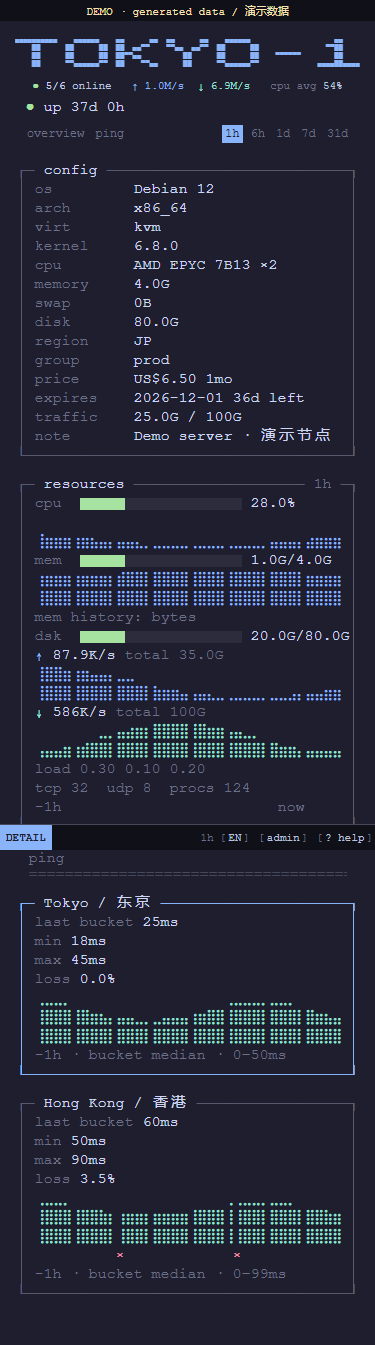
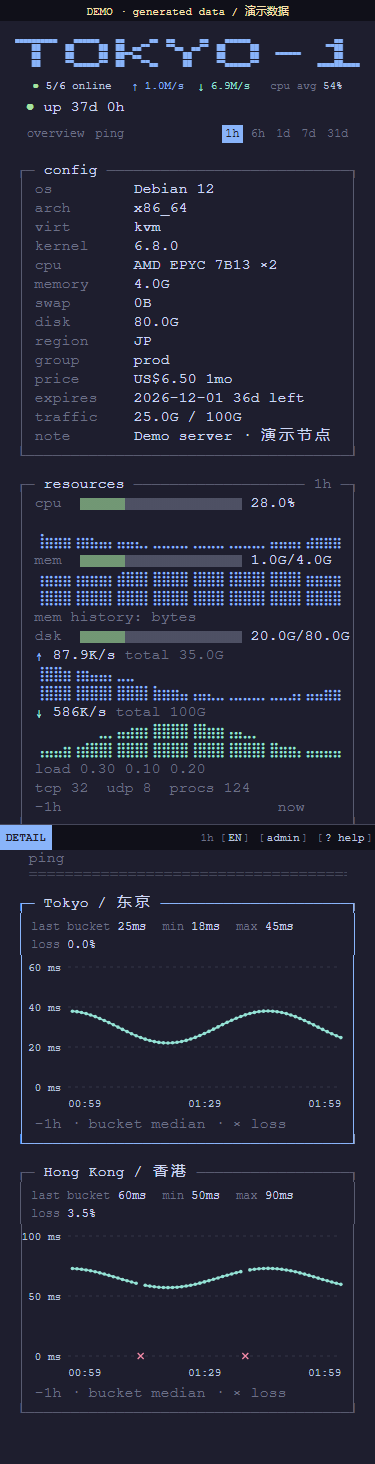
feat: add ping line charts and fluid terminal cards

diff --git a/tests/e2e/theme.spec.js b/tests/e2e/theme.spec.js
@@ -2,6 +2,16 @@ import {test,expect} from '@playwright/test';
 test('fresh visitors start with Catppuccin and can use terminal-styled controls',async({page})=>{
  await page.goto('/');await expect(page.locator('.card')).toHaveCount(6);await expect(page.locator('#st-pal')).toHaveText('catppuccin');await expect(page.locator('.palette-control')).toBeVisible();await page.locator('#palette').selectOption('nord');await expect(page.locator('#st-pal')).toHaveText('nord');
 });
+test('palette control fits its text and uses an underline instead of a focus box',async({page})=>{
+ await page.goto('/');await page.locator('#palette').selectOption('catppuccin');await page.locator('#palette').focus();
+ const style=await page.locator('#palette').evaluate(el=>({outline:getComputedStyle(el).outlineStyle,width:el.getBoundingClientRect().width,ch:parseFloat(getComputedStyle(el).fontSize)}));
+ await page.locator('#palette').blur();
+ expect(style.outline).toBe('none');expect(style.width).toBeLessThan(140);
+});
+test('ping tasks render responsive SVG polylines with readable axes and loss markers',async({page})=>{
+ await page.goto('/#/node/1');await expect(page.locator('.ping-chart svg').first()).toBeVisible();await expect(page.locator('.ping-line').first()).toHaveAttribute('d',/M.*L/);await expect(page.locator('.ping-loss').first()).toBeVisible();await expect(page.locator('.ping-chart').first()).toContainText('ms');
+ await page.setViewportSize({width:320,height:850});await expect.poll(()=>page.evaluate(()=>document.documentElement.scrollWidth<=innerWidth)).toBe(true);
+});
 test('faithful list, Monitor detail, routing, languages and palettes',async({page})=>{
  const errors=[];page.on('pageerror',e=>errors.push(e.message));await page.goto('/');await expect(page.locator('.card')).toHaveCount(6);
  await expect(page.locator('#demo')).toBeVisible();await page.locator('.card').first().click();await expect(page).toHaveURL(/#\/node\/1/);await expect(page.locator('#detail-body')).toContainText('config');
@@ -36,6 +46,11 @@ test('medium windows use two compact columns instead of a narrow centered stack'
  const layout=await page.locator('#grid').evaluate(el=>{const a=el.children[0].getBoundingClientRect(),b=el.children[1].getBoundingClientRect();return {firstTop:a.top,secondTop:b.top,firstLeft:a.left,secondLeft:b.left,height:a.height};});
  expect(layout.firstTop).toBe(layout.secondTop);expect(layout.secondLeft).toBeGreaterThan(layout.firstLeft);expect(layout.height).toBeLessThanOrEqual(180);expect(await page.evaluate(()=>document.documentElement.scrollWidth<=innerWidth)).toBe(true);
 });
+test('card rows fill available width and column count stays stable after font loading',async({page})=>{
+ await page.setViewportSize({width:1645,height:850});await page.goto('/');await expect(page.locator('.card')).toHaveCount(6);await page.screenshot();
+ const geometry=()=>page.locator('#grid').evaluate(el=>{const cards=[...el.children].map(n=>n.getBoundingClientRect()),first=cards.filter(r=>r.top===cards[0].top),grid=el.getBoundingClientRect();return {columns:first.length,left:first[0].left-grid.left,right:grid.right-first.at(-1).right};});
+ let g=await geometry();expect(g.columns).toBe(4);expect(g.left).toBeLessThanOrEqual(9);expect(g.right).toBeLessThanOrEqual(9);await page.setViewportSize({width:1630,height:850});await page.waitForTimeout(250);g=await geometry();expect(g.columns).toBe(4);expect(g.right).toBeLessThanOrEqual(9);
+});
 test('native buttons activate with Enter and retain focus across snapshots',async({page})=>{
  await page.goto('/');const group=page.getByRole('button',{name:'[prod]',exact:true});await group.focus();await page.keyboard.press('Enter');await expect(page.locator('.card')).toHaveCount(2);await expect(page).not.toHaveURL(/node/);
  await page.locator('.card').first().click();const ping=page.getByRole('button',{name:'ping',exact:true});await ping.focus();await page.keyboard.press('Enter');await expect(page.locator('#st-mode')).toHaveText('PING');await ping.focus();await page.waitForTimeout(2300);await expect(ping).toBeFocused();
@@ -52,7 +67,8 @@ test('meter filled and empty cells share the same rectangle independent of glyph
   const fill=el.querySelector('.meter-fill .cell'),empty=el.querySelector('.meter-empty .cell');if(!fill||!empty)return null;
   const a=fill.getBoundingClientRect(),b=empty.getBoundingClientRect();return {heightA:a.height,heightB:b.height,topA:a.top,topB:b.top,widthA:a.width,widthB:b.width,fill:getComputedStyle(fill).backgroundColor,pattern:getComputedStyle(empty).backgroundImage};
  });
- expect(geometry).not.toBeNull();expect(geometry.heightA).toBe(12);expect(geometry.heightB).toBe(12);expect(geometry.topA).toBe(geometry.topB);expect(geometry.widthA).toBe(geometry.widthB);expect(geometry.fill).not.toBe('rgba(0, 0, 0, 0)');expect(geometry.pattern).toContain('radial-gradient');
+ expect(geometry).not.toBeNull();expect(geometry.heightA).toBe(12);expect(geometry.heightB).toBe(12);expect(geometry.topA).toBe(geometry.topB);expect(geometry.widthA).toBe(geometry.widthB);expect(geometry.pattern).toContain('radial-gradient');
+ const patterns=await page.locator('.card').first().evaluate(el=>[...el.querySelectorAll('.meter-fill .cell,.meter-empty .cell')].map(n=>getComputedStyle(n).backgroundImage.replace(/rgba?\([^)]*\)/g,'COLOR')+' '+getComputedStyle(n).backgroundSize));expect(new Set(patterns).size).toBe(1);
 });
 test('groups and search affect the visible summary; offline and waiting differ',async({page})=>{
  await page.goto('/');await expect(page.locator('.card')).toHaveCount(6);await expect(page.locator('#grid')).toContainText('waiting');await expect(page.locator('#grid')).toContainText('offline');

diff --git a/src/render/ping-chart.js b/src/render/ping-chart.js
@@ -1,0 +1,43 @@
+import {finite} from '../data/model.js';
+
+/** Actual timestamp positions; missing buckets and long gaps split the line. */
+export function lineGeometry(input,{start,end,width,height,step=60}) {
+ step=finite(step)&&step>0?step:60;
+ const points=(Array.isArray(input)?input:[]).filter(p=>p&&finite(p.ts)&&p.ts>=start&&p.ts<=end).sort((a,b)=>a.ts-b.ts);
+ const values=points.map(p=>p.latency).filter(finite),peak=Math.max(1,...values)*1.15;
+ const power=10**Math.floor(Math.log10(peak/4)),tick=[1,2,5,10].map(v=>v*power).find(v=>v>=peak/4)||power*10;
+ const max=Math.max(tick,Math.ceil(peak/tick)*tick),left=46,right=Math.max(left+1,width-12),top=12,bottom=Math.max(top+1,height-28);
+ const x=ts=>left+(ts-start)/Math.max(1,end-start)*(right-left),y=value=>bottom-value/max*(bottom-top);
+ const paths=[],dots=[],loss=[];let current='',previous=null;
+ const flush=()=>{if(current)paths.push(current);current='';previous=null;};
+ for(const p of points){
+  if(finite(p.loss)&&p.loss>0)loss.push({x:x(p.ts),value:p.loss,ts:p.ts});
+  if(!finite(p.latency)){flush();continue;}
+  if(previous!==null&&p.ts-previous>Math.max(1,step)*1.5)flush();
+  const px=x(p.ts),py=y(p.latency);current+=`${current?'L':'M'}${px.toFixed(2)},${py.toFixed(2)} `;previous=p.ts;dots.push({x:px,y:py,value:p.latency,ts:p.ts,loss:finite(p.loss)?p.loss:0});
+ }
+ flush();return {paths,points:dots,loss,max,tick,left,right,top,bottom,width,height};
+}
+
+const NS='http://www.w3.org/2000/svg';
+function element(tag,attrs={},text){const el=document.createElementNS(NS,tag);for(const [key,value]of Object.entries(attrs))el.setAttribute(key,String(value));if(text!==undefined)el.textContent=text;return el;}
+const clockFormat=new Intl.DateTimeFormat(undefined,{hour:'2-digit',minute:'2-digit',hour12:false});
+const dayFormat=new Intl.DateTimeFormat(undefined,{month:'2-digit',day:'2-digit'});
+const dateTimeFormat=new Intl.DateTimeFormat(undefined,{month:'2-digit',day:'2-digit',hour:'2-digit',minute:'2-digit',hour12:false});
+const time=ts=>clockFormat.format(new Date(ts*1000));
+const latency=v=>v>=1000?`${Number((v/1000).toPrecision(2))} s`:`${v<10?Number(v.toFixed(1)):Math.round(v)} ms`;
+
+export function drawPingChart(host,task,{start,end,step=60,language='en'}={}) {
+ const width=Math.max(180,host.clientWidth),height=host.classList.contains('big')?240:160;
+ const g=lineGeometry(task.points,{start,end,width,height,step});
+ const svg=element('svg',{viewBox:`0 0 ${width} ${height}`,width:'100%',height,role:'img','aria-label':`${task.name} · ${language==='zh'?'延迟折线图，时间桶中位数':'latency line, bucket medians'}`});
+ svg.append(element('title',{},`${task.name} · ${language==='zh'?'延迟折线；缺失数据不连线；× 表示丢包':'Latency line; gaps are not connected; × marks packet loss'}`));
+ for(let value=0;value<=g.max+g.tick/100;value+=g.tick){const y=g.bottom-value/g.max*(g.bottom-g.top);svg.append(element('line',{x1:g.left,y1:y,x2:g.right,y2:y,class:'ping-grid'}),element('text',{x:g.left-7,y:y+4,'text-anchor':'end',class:'ping-axis'},latency(value)));}
+ const ticks=width<440?2:4;
+ for(let i=0;i<=ticks;i++){const ts=start+(end-start)*i/ticks,x=g.left+(g.right-g.left)*i/ticks,label=end-start>86400?(width<440?dayFormat:dateTimeFormat).format(new Date(ts*1000)):time(ts);svg.append(element('text',{x,y:height-8,'text-anchor':i===ticks?'end':i===0?'start':'middle',class:'ping-axis'},label));}
+ for(const d of g.paths)svg.append(element('path',{d,class:'ping-line',fill:'none','stroke-width':1.7,'vector-effect':'non-scaling-stroke'}));
+ for(const p of g.points){const dot=element('circle',{cx:p.x,cy:p.y,r:1.8,class:'ping-dot'});dot.append(element('title',{},`${time(p.ts)} · ${p.value.toFixed(1)} ms${p.loss?` · ${language==='zh'?'丢包':'loss'} ${p.loss}%`:''}`));svg.append(dot);}
+ for(const p of g.loss){const mark=element('path',{d:`M${p.x-3},${g.bottom-3}l6,6m-6,0l6,-6`,class:'ping-loss',fill:'none','stroke-width':1.3});mark.append(element('title',{},`${time(p.ts)} · ${language==='zh'?'丢包':'loss'} ${p.value}%`));svg.append(mark);}
+ if(!g.points.length)svg.append(element('text',{x:(g.left+g.right)/2,y:(g.top+g.bottom)/2,'text-anchor':'middle',class:'ping-axis'},language==='zh'?'无有效延迟数据':'No latency samples'));
+ host.replaceChildren(svg);
+}

diff --git a/src/views/detail.js b/src/views/detail.js
@@ -1,5 +1,6 @@
 import {box,bytes,uptime,ms,graph,meter,clip,txt,padR} from '../render/util.js';
 import {mount} from '../render/dom.js';
+import {drawPingChart} from '../render/ping-chart.js';
 import {ranges,pingModel,series,expiry,trafficUsed,finite} from '../data/model.js';
 import {history,clearHistory} from '../data/history.js';
 import {getLang,t} from '../i18n/index.js';
@@ -57,14 +58,11 @@ export function createDetail(app){
  }
  const tasks=()=>pingModel(slots.ping||{});
  function taskBlock(I,task,big){
-  const b=box(I),L=[b.top(` ${task.name} `)],gw=I-2,end=Date.now()/1000,start=end-hours()*3600;
-  L.push(b.row([['d',` ${word('last bucket','最近时间桶')} `],['w',ms(task.last)]]));
-  for(const [label,v]of [['min',ms(task.min)],['max',ms(task.max)],['loss',task.loss===null?'—':`${task.loss.toFixed(1)}%`]])L.push(b.row([['d',` ${label} `],['w',v]]));
-  const values=series(task.points,'latency',start,end,gw*2),top=Math.max(5,...task.points.map(p=>p.band?.[1]??p.latency??0))*1.1;
-  for(const g of graph(values,gw,big?8:3,top))L.push(b.row([['',' '],['n',g]]));
-  const loss=Array(gw).fill(' ');for(const p of task.points)if(p.loss>0&&p.ts>=start&&p.ts<=end)loss[Math.min(gw-1,Math.floor((p.ts-start)/(end-start)*gw))]='×';
-  if(loss.includes('×'))L.push(b.row([['',' '],['r',loss.join('')]]));
-  L.push(b.row([['d',` -${rangeLabel()} · ${word('bucket median','时间桶中位数')} · 0–${ms(top)}`]]));
+  const b=box(I),L=[b.top(` ${task.name} `)];
+  const stats=[[word('last bucket','最近时间桶'),ms(task.last)],[word('min','最低'),ms(task.min)],[word('max','最高'),ms(task.max)],[word('loss','丢包'),task.loss===null?'—':`${task.loss.toFixed(1)}%`]];
+  L.push(`<div class="ping-stats">${stats.map(([label,value])=>`<span><span class="d">${txt(label)} </span><span class="w">${txt(value)}</span></span>`).join('')}</div>`);
+  L.push(`<div class="ping-chart${big?' big':''}" data-ping="${task.id}"></div>`);
+  L.push(b.row([['d',` -${rangeLabel()} · ${word('bucket median · × loss','时间桶中位数 · × 丢包')}`]]));
   L.push(b.bottom());return `<div class="blk${task.id===(zoom??tasks()[selected]?.id)?' cur':''}" data-task="${task.id}" tabindex="0" role="button" aria-label="${task.id}">${L.join('')}</div>`;
  }
  function render(){
@@ -75,6 +73,8 @@ export function createDetail(app){
   const ts=tasks();selected=Math.max(0,Math.min(selected,ts.length-1));if(zoom!==null&&!ts.some(x=>x.id===zoom))zoom=null;
   const ping=ts.length?(zoom!==null?ts.filter(x=>x.id===zoom):ts).map(x=>taskBlock(I,x,zoom!==null)).join(''):`<div class="empty">${txt(loading?t('loading'):failure||t('noTasks'))}</div>`;
   mount($('detail-body'),title+controls+(tab==='ping'?ping:configBox(I,n)+resources(I,n)+`<div class="rule">${txt(t('sec.ping'))}</div>`+ping));
+  const end=Date.now()/1000,start=end-hours()*3600;
+  for(const host of $('detail-body').querySelectorAll('[data-ping]')){const task=ts.find(x=>x.id===Number(host.dataset.ping));if(task)drawPingChart(host,task,{start,end,step:slots.ping?.step||60,language:getLang()});}
  }
  function layout(){width=Math.max(20,Math.min(110,Math.floor((innerWidth-24)/app.cw())));$('detail').style.setProperty('--dw',width);render();}
  function show(next){if(id===next){render();return;}stop();id=next;tab='overview';zoom=null;selected=0;slots={metrics:null,ping:null};$('detail').hidden=false;layout();ensure();timer=setInterval(()=>ensure(),30000);scrollTo(0,0);}

diff --git a/src/visual/style.css b/src/visual/style.css
@@ -120,14 +120,13 @@ body { padding-bottom: 34px; }
 @media(prefers-reduced-motion:reduce) { #saver { display:none !important; } }
 .cell { display:inline-block; width:1ch; text-align:center; }
 .meter-fill .cell, .meter-empty .cell { height:12px; line-height:12px; vertical-align:middle; overflow:hidden; text-indent:-9999px; }
-.meter-fill .cell { background:currentColor; }
-.meter-empty .cell { background-image:radial-gradient(currentColor .5px,transparent .75px); background-size:2px 2px; }
+.meter-fill .cell,.meter-empty .cell { background-color:transparent; background-image:radial-gradient(currentColor .65px,transparent .8px); background-size:2px 2px; }
 
 /* Terminal controls: keep native semantics, render like bracketed commands. */
 .palette-control { display:inline-flex; align-items:center; color:var(--dark-foreground); white-space:nowrap; }
 .palette-control:has(select[hidden]) { display:none; }
-.palette-control .sel { appearance:none; -webkit-appearance:none; border:0; border-radius:0; background:transparent; color:var(--foreground); padding:1px .8ch; min-width:16ch; cursor:pointer; }
-.palette-control .sel:focus-visible { outline:1px solid var(--accent); outline-offset:2px; }
+.palette-control .sel { appearance:none; -webkit-appearance:none; border:0; border-radius:0; background:transparent; color:var(--foreground); padding:1px .25ch; min-width:0; cursor:pointer; box-shadow:none; outline:none; }
+.palette-control .sel:focus-visible { outline:none; text-decoration:underline; text-underline-offset:4px; }
 .palette-control:hover,.palette-control:focus-within { color:var(--accent); }
 .palette-control option { color:var(--foreground); background:var(--background); }
 .status { gap:8px; }
@@ -135,4 +134,17 @@ body { padding-bottom: 34px; }
 .status .hk::before { content:'['; color:var(--dark-foreground); }
 .status .hk::after { content:']'; color:var(--dark-foreground); }
 .status .hk:hover,.status .hk:focus-visible { color:var(--accent); background:transparent; }
-@media(max-width:480px) { .status { gap:4px; } .status .hk { padding:0 2px; } .palette-control .sel { min-width:13ch; } }
+@media(max-width:480px) { .status { gap:4px; } .status .hk { padding:0 2px; } }
+.ping-stats,.ping-chart { margin:0 .5ch; border-inline:1px solid var(--bc); }
+.ping-stats { display:flex; flex-wrap:wrap; gap:4px 16px; padding:7px 10px 3px; font-size:12px; }
+.ping-chart { height:160px; min-width:0; }
+.ping-chart.big { height:240px; }
+.ping-chart svg { display:block; max-width:100%; overflow:visible; }
+.ping-grid { stroke:var(--selection); stroke-dasharray:3 4; stroke-width:.6; }
+.ping-axis { fill:var(--light-foreground); font:11px var(--font); }
+.ping-line { stroke:var(--cyan); stroke-linejoin:round; stroke-linecap:round; }
+.ping-dot { fill:var(--cyan); }
+.ping-loss { stroke:var(--red); }
+.grid { grid-template-columns:repeat(var(--columns,1),minmax(0,1fr)); justify-content:stretch; }
+.card .ln.t,.card .ln.u { position:relative; }
+.card .ln.t > .b:last-child,.card .ln.u > .b:last-child { position:absolute; right:0; }

diff --git a/src/app.js b/src/app.js
@@ -71,7 +71,9 @@ function setupPaletteSelect() {
   mount(sel, `<option value="">${tr("auto")}</option>` + paletteNames().map((n) => `<option value="${n}">${n}</option>`).join(""));
   sel.value = chosenPalette() || "";
   sel.hidden = false;
-  sel.onchange = () => { store.set(sel.value); applyPalette(currentPalette()); status(); };
+  const fit=()=>{sel.style.width=`${wcw(sel.selectedOptions[0]?.textContent||'')+1}ch`;};
+  fit();
+  sel.onchange = () => { store.set(sel.value); fit(); applyPalette(currentPalette()); status(); };
 }
 dark.addEventListener("change", () => applyPalette(currentPalette()));
 
@@ -185,8 +187,9 @@ function charWidth() {
 }
 function calcWidth() {
   const available=Math.max(0,document.documentElement.clientWidth-16),gap=14,cell=charWidth();
-  const columns=Math.max(1,Math.floor((available+gap)/(34*cell+gap)));
-  W=Math.max(20,Math.min(46,Math.floor((available-gap*(columns-1))/columns/cell)));
+  const columns=Math.max(1,Math.floor((available+gap)/(320+gap)));
+  W=Math.max(20,Math.floor((available-gap*(columns-1))/columns/cell));
+  $("grid").style.setProperty("--columns",columns);
   $("grid").style.setProperty("--w", W);
 }
 function layout() {
@@ -321,6 +324,7 @@ function stepPalette(dir) {
   const next = cycle(paletteNames(), currentPalette(), dir);
   store.set(next);
   $("palette").value = next;
+  $("palette").style.width=`${wcw(next)+1}ch`;
   applyPalette(next);
 }
 function stepGroup(dir) {

diff --git a/tests/ping-chart.test.js b/tests/ping-chart.test.js
@@ -1,0 +1,11 @@
+import {test} from 'node:test';
+import assert from 'node:assert/strict';
+import {lineGeometry} from '../src/render/ping-chart.js';
+test('ping lines break at missing buckets and long gaps rather than connecting outages',()=>{
+ const g=lineGeometry([{ts:0,latency:20},{ts:60,latency:30},{ts:120,latency:null,loss:100},{ts:180,latency:25},{ts:600,latency:40}],{start:0,end:600,width:500,height:160,step:60});
+ assert.equal(g.paths.length,3);assert.equal(g.points.length,4);assert.equal(g.loss.length,1);assert.ok(g.paths[0].includes('L'));assert.ok(!g.paths.some(p=>p.includes('NaN')));assert.ok(g.max>=40);
+});
+test('empty, zero and malformed latency samples have bounded finite geometry',()=>{
+ const g=lineGeometry([{ts:0,latency:0},{ts:30,latency:Infinity},{ts:60,latency:'bad'}],{start:0,end:60,width:250,height:160,step:30});
+ assert.equal(g.points.length,1);assert.equal(g.points[0].value,0);assert.ok(g.max>0);assert.equal(lineGeometry([],{start:0,end:60,width:250,height:160,step:60}).paths.length,0);
+});

diff --git a/src/render/dom.js b/src/render/dom.js
@@ -5,7 +5,7 @@ export function mount(element,html) {
   const identity=focused&&['data-tab','data-range','data-task','aria-label'].map(key=>[key,focused.getAttribute(key)]).find(([,v])=>v!==null);
   const doc=new DOMParser().parseFromString(`<body>${html}</body>`,'text/html');
   const tags=new Set(['DIV','SPAN','B','BUTTON','SELECT','OPTION']);
-  const attrs=new Set(['class','value','selected','type','data-tab','data-range','data-task','aria-label','aria-pressed','role','tabindex']);
+  const attrs=new Set(['class','value','selected','type','data-tab','data-range','data-task','data-ping','aria-label','aria-pressed','role','tabindex']);
   for(const el of doc.body.querySelectorAll('*')) {
     if(!tags.has(el.tagName)){el.replaceWith(doc.createTextNode(el.textContent));continue;}
     for(const attr of [...el.attributes])if(!attrs.has(attr.name))el.removeAttribute(attr.name);

diff --git a/README.md b/README.md
@@ -57,7 +57,7 @@ sha256sum -c theme.tar.gz.sha256
 - **中英文界面**：访客选择优先，其次为站点默认和浏览器语言。
 - **节点浏览**：分组、搜索、在线与网速汇总；汇总跟随当前筛选结果。
 - **节点详情**：机器信息、实时资源、历史曲线、费用、账期、到期与流量。
-- **延迟监控**：按探测任务显示字符曲线、丢包位置、窗口丢包率及单任务放大。
+- **延迟监控**：按探测任务显示延迟折线、时间/延迟刻度、丢包位置、窗口丢包率及单任务放大。
 - **键盘操作**：Vim 风格导航，同时支持常规 Tab 焦点和原生按钮激活。
 - **空闲屏保**：90 秒未操作后启用；遵循系统减少动态效果设置。
 - **连接恢复**：文本/gzip WebSocket、顺序解码、断流重连和 REST 轮询兜底。

diff --git a/docs/releases/v0.1.2.md b/docs/releases/v0.1.2.md
@@ -1,0 +1,16 @@
+# Omarchy · Monitor v0.1.2
+
+- Ping 延迟改为响应式折线图，加入时间轴、延迟刻度、采样点和丢包标记。
+- 缺失时间桶和长时间断流处断开折线，不再用点阵面积图表现延迟。
+- 配色选择器按当前文字自动收窄，移除固定留白和矩形焦点框，保留键盘焦点下划线。
+- GitHub 仓库简介改为中文，README 预览同步更新。
+- 首页使用弹性列铺满可用宽度，避免字体加载后列数变化及两侧大片留白。
+- 资源条的已用、未用区域统一使用点阵纹理，仅以颜色区分。
+
+Monitor 后台的 GitHub 安装地址：
+
+```text
+https://github.com/ayingQAQ/monitor-theme-omarchy
+```
+
+手动安装请下载 `theme.tar.gz`，校验文件为 `theme.tar.gz.sha256`。
